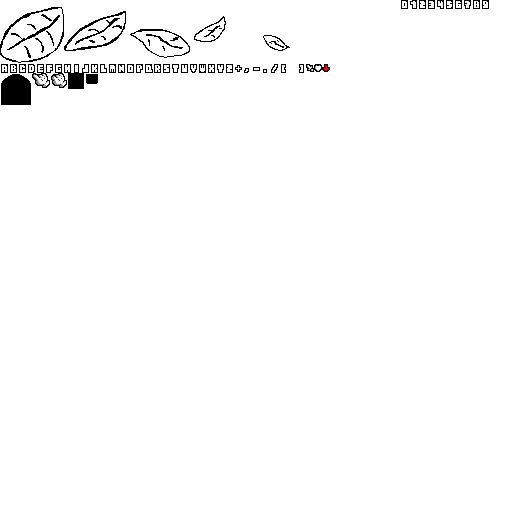
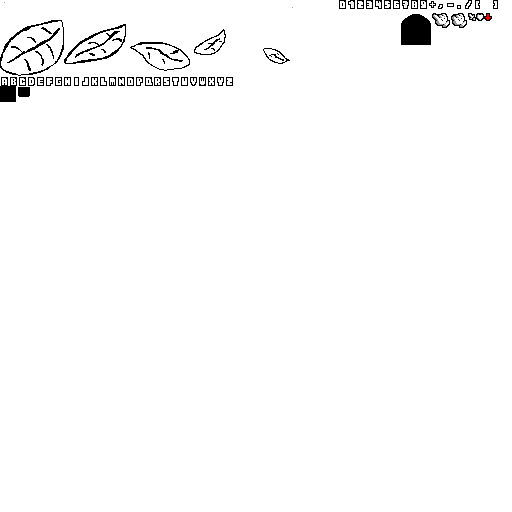
[WIP] Adding new font.

Changed region(s): [[0.0, 0.0, 0.6562, 0.2188], [0.6562, 0.0, 0.9688, 0.0938]]

diff --git a/GraphicsEngine/Game/Src/Interpreters/TextInterpreter.cpp b/GraphicsEngine/Game/Src/Interpreters/TextInterpreter.cpp
@@ -65,6 +65,7 @@ namespace game
 	void TextInterpreter::OnUpdate(const EngineMemory& memory, const jv::LinkedList<jv::Vector<TextTask>>& tasks)
 	{
 		const float symbolPctSize = static_cast<float>(_createInfo.symbolSize) / static_cast<float>(_createInfo.atlasResolution.x);
+		const float largeSymbolPctSize = static_cast<float>(_createInfo.largeSymbolSize) / static_cast<float>(_createInfo.atlasResolution.x);
 		
 		PixelPerfectRenderTask task{};
 
@@ -84,8 +85,11 @@ namespace game
 				if(fadeIn)
 					maxLen = jv::Min<uint32_t>(maxLen, static_cast<uint32_t>(job.lifetime * _createInfo.fadeInSpeed));
 
-				const auto s = glm::ivec2(static_cast<int32_t>(_createInfo.symbolSize)) * glm::ivec2(static_cast<int32_t>(job.scale));
-				const auto spacing = (_createInfo.spacing + job.spacing + _createInfo.symbolSize) * job.scale;
+				const float size = job.largeFont ? _createInfo.largeSymbolSize : _createInfo.symbolSize;
+				const float pctSize = job.largeFont ? largeSymbolPctSize : symbolPctSize;
+
+				const auto s = glm::ivec2(static_cast<int32_t>(size)) * glm::ivec2(static_cast<int32_t>(job.scale));
+				const auto spacing = (_createInfo.spacing + job.spacing + size) * job.scale;
 
 				task.position = job.position;
 				task.scale = s;
@@ -95,7 +99,7 @@ namespace game
 				uint32_t xStart = 0;
 
 				bool isInBrackets = false;
-
+				
 				for (uint32_t i = 0; i < len; ++i)
 				{
 					if (i == maxLen)
@@ -123,14 +127,14 @@ namespace game
 						lineLength = 0;
 						if(job.center)
 						{
-							xStart = (nextLineStart - i) * (_createInfo.symbolSize + _createInfo.spacing) * job.scale / 2;
-							xStart += _createInfo.symbolSize / 4 * job.scale;
+							xStart = (nextLineStart - i) * (size + _createInfo.spacing) * job.scale / 2;
+							xStart += size / 4 * job.scale;
 						}
 						task.position.x = static_cast<int32_t>(job.position.x - xStart);
 
 						if(i != 0)
 						{
-							task.position.y -= static_cast<int32_t>(_createInfo.symbolSize * job.scale);
+							task.position.y -= static_cast<int32_t>(size * job.scale);
 							task.position.x -= static_cast<int32_t>(spacing);
 						}
 					}
@@ -150,9 +154,9 @@ namespace game
 						constexpr uint32_t secondRow = '[' - 5;
 						auto position = c - (isInteger ? '0' : isSymbol ? isSymbol2ndRow ? secondRow : '+' : 'a');
 						auto subTexture = isInteger ? _createInfo.numberAtlasTexture.subTexture : isSymbol ? 
-							_createInfo.symbolAtlasTexture.subTexture : _createInfo.alphabetAtlasTexture.subTexture;
-						subTexture.lTop.x += symbolPctSize * static_cast<float>(position);
-						subTexture.rBot.x = subTexture.lTop.x + symbolPctSize;
+							_createInfo.symbolAtlasTexture.subTexture : (job.largeFont ? _createInfo.largeAlphabetAtlasTexture : _createInfo.alphabetAtlasTexture).subTexture;
+						subTexture.lTop.x += pctSize * static_cast<float>(position);
+						subTexture.rBot.x = subTexture.lTop.x + pctSize;
 
 						task.subTexture = subTexture;
 

diff --git a/GraphicsEngine/Game/Src/CardGame.cpp b/GraphicsEngine/Game/Src/CardGame.cpp
@@ -576,6 +576,7 @@ namespace game
 
 			TextInterpreterCreateInfo textInterpreterCreateInfo{};
 			textInterpreterCreateInfo.alphabetAtlasTexture = outCardGame->atlasTextures[static_cast<uint32_t>(TextureId::alphabet)];
+			textInterpreterCreateInfo.largeAlphabetAtlasTexture = outCardGame->atlasTextures[static_cast<uint32_t>(TextureId::largeAlphabet)];
 			textInterpreterCreateInfo.symbolAtlasTexture = outCardGame->atlasTextures[static_cast<uint32_t>(TextureId::symbols)];
 			textInterpreterCreateInfo.numberAtlasTexture = outCardGame->atlasTextures[static_cast<uint32_t>(TextureId::numbers)];
 			textInterpreterCreateInfo.atlasResolution = glm::ivec2(texWidth, texHeight);
@@ -667,16 +668,17 @@ namespace game
 	{
 		const auto arr = jv::CreateArray<const char*>(arena, static_cast<uint32_t>(TextureId::length));
 		arr[0] = "Art/alphabet.png";
-		arr[1] = "Art/numbers.png";
-		arr[2] = "Art/symbols.png";
-		arr[3] = "Art/mouse.png";
-		arr[4] = "Art/card.png";
-		arr[5] = "Art/stats.png";
-		arr[6] = "Art/flowers.png";
-		arr[7] = "Art/fallback.png";
-		arr[8] = "Art/empty.png";
-		arr[9] = "Art/manabar.png";
-		arr[10] = "Art/manacrystal.png";
+		arr[1] = "Art/largealphabet.png";
+		arr[2] = "Art/numbers.png";
+		arr[3] = "Art/symbols.png";
+		arr[4] = "Art/mouse.png";
+		arr[5] = "Art/card.png";
+		arr[6] = "Art/stats.png";
+		arr[7] = "Art/flowers.png";
+		arr[8] = "Art/fallback.png";
+		arr[9] = "Art/empty.png";
+		arr[10] = "Art/manabar.png";
+		arr[11] = "Art/manacrystal.png";
 		return arr;
 	}
 

diff --git a/GraphicsEngine/Game/Include/Interpreters/TextInterpreter.h b/GraphicsEngine/Game/Include/Interpreters/TextInterpreter.h
@@ -14,9 +14,11 @@ namespace game
 		TaskSystem<PixelPerfectRenderTask>* renderTasks;
 		glm::ivec2 atlasResolution;
 		jv::ge::AtlasTexture alphabetAtlasTexture;
+		jv::ge::AtlasTexture largeAlphabetAtlasTexture;
 		jv::ge::AtlasTexture numberAtlasTexture;
 		jv::ge::AtlasTexture symbolAtlasTexture;
 		uint32_t symbolSize = 9;
+		uint32_t largeSymbolSize = 13;
 		int32_t spacing = -2;
 		uint32_t bounceHeight = 3;
 		float fadeInSpeed = 40;

diff --git a/GraphicsEngine/Game/Src/Levels/Level.cpp b/GraphicsEngine/Game/Src/Levels/Level.cpp
@@ -221,8 +221,9 @@ namespace game
 					titleTextTask.lifetime = l * 4;
 					titleTextTask.center = true;
 					titleTextTask.priority = true;
-					titleTextTask.scale = 2;
+					titleTextTask.largeFont = true;
 					info.textTasks.Push(titleTextTask);
+					titleTextTask.largeFont = false;
 
 					if(tagsText)
 					{

diff --git a/GraphicsEngine/Game/Include/Tasks/TextTask.h b/GraphicsEngine/Game/Include/Tasks/TextTask.h
@@ -18,5 +18,6 @@ namespace game
 		float lifetime = -1;
 		bool loop = false;
 		bool fadingOut = false;
+		bool largeFont = false;
 	};
 }

diff --git a/GraphicsEngine/Game/Include/Macros.h b/GraphicsEngine/Game/Include/Macros.h
@@ -252,6 +252,7 @@ enum class LevelIndex
 enum class TextureId
 {
 	alphabet,
+	largeAlphabet,
 	numbers,
 	symbols,
 	mouse,
